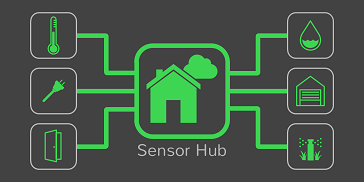
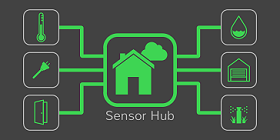
Image updates to About

diff --git a/499 website/about.html b/499 website/about.html
@@ -47,28 +47,28 @@
 			<div class="header">
 				<div>
 					<h1>About</h1>
-					<h2>We Have Free Templates for Everyone</h2>
-					<p>Our website templates are created with inspiration, checked for quality and originality and meticulously sliced and coded. What’s more, they’re absolutely free! You can do a lot with them. You can modify them. You can use them to design websites for clients, so long as you agree with the <a href="https://freewebsitetemplates.com/about/terms/">Terms of Use</a>. You can even remove all our links if you want to.</p>
+					<h2>Harvesting data in one convenient place</h2>
+					<p>What kind of sensor do you need to use? We've got you covered......[insert text] </p>
 				</div>
 			</div>
 			<div class="body">
 				<div>
 					<img src="images/sensor-diagram.png" alt="">
-					<h2>We Have More Templates for You</h2>
-					<p>Looking for more templates? Just browse through all our <a href="https://freewebsitetemplates.com/">Free Website Templates</a> and find what you’re looking for. But if you don’t find any website template you can use, you can try our <a href="https://freewebsitetemplates.com/freewebdesign/">Free Web Design</a> service and tell us all about it. Maybe you’re looking for something different, something special. And we love the challenge of doing something different and something special.</p>
+					<h2>More info</h2>
+					<p>Yada yada yada....[insert text]</p>
 				</div>
 			</div>
 			<div class="footer">
 				<div>
-					<img src="images/space-shuttle.png" alt="">
-					<h2>Be Part of Our Community</h2>
-					<p>If you’re experiencing issues and concerns about this website template, join the discussion <a href="https://freewebsitetemplates.com/forums/">on our forum</a> and meet other people in the community who share the same interests with you.</p>
+					<img src="images/sensor-diagram2.jpg" alt="">
+					<h2>Even more info</h2>
+					<p>[insert text]</p>
 				</div>
 			</div>
 			<div class="section">
 				<div>
-					<h2>Template Details</h2>
-					<p>Design Version 1. Code version 3. Website Template details, discussion and updates for this <a href="https://freewebsitetemplates.com/discuss/spacescience/"> Space Science Website Template</a>. Website Template design by <a href="https://freewebsitetemplates.com/">Free Website Templates</a>. Please feel free to remove some or all the text and links of this page and replace it with your own About content.</p>
+					<h2>Extra unecessary info</h2>
+					<p>[insert text]</p>
 				</div>
 			</div>
 		</div>
